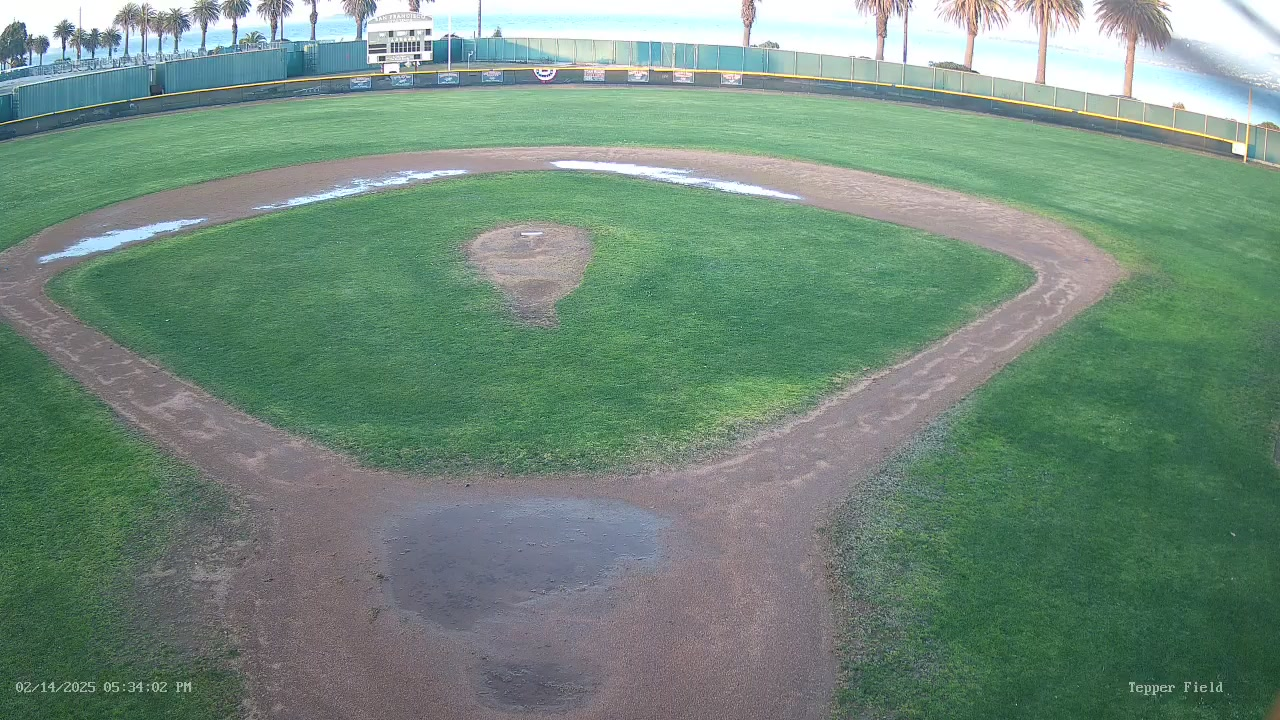
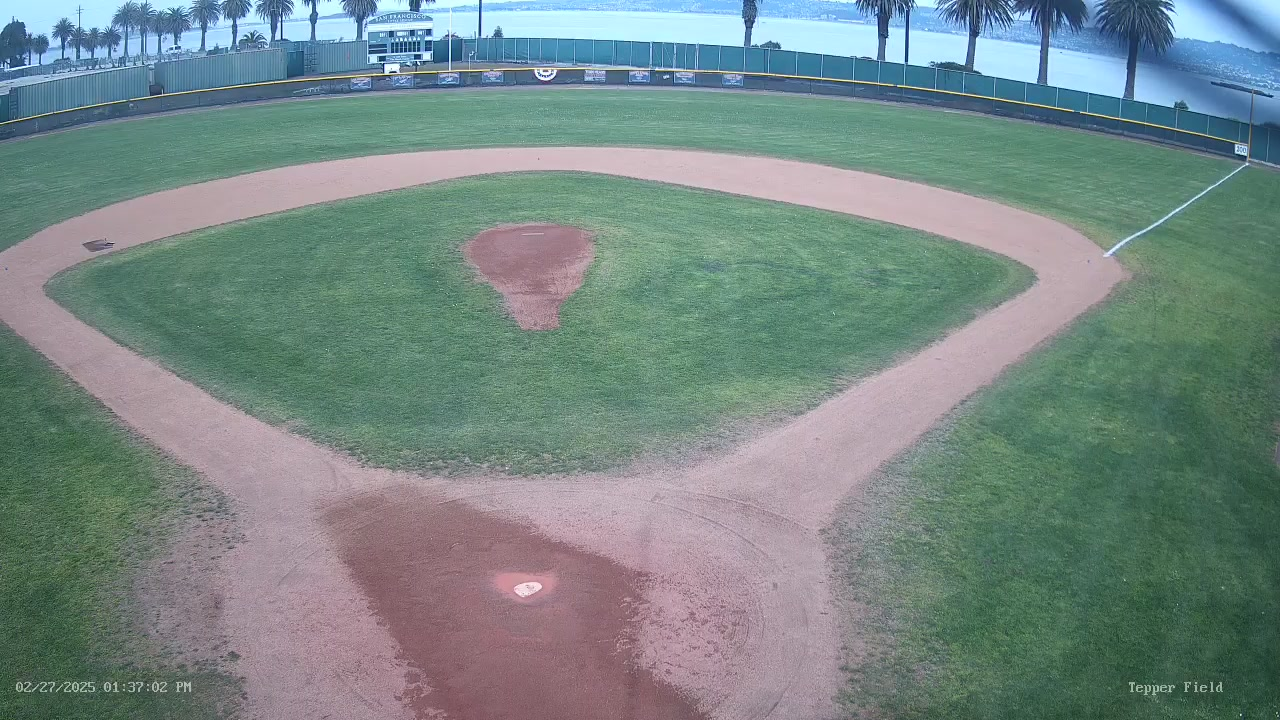
dynamic

diff --git a/cam-app/app/main.py b/cam-app/app/main.py
@@ -78,10 +78,10 @@ def format_datetime(value, format="%Y-%m-%d %H:%M:%S"):
 templates = Jinja2Templates(directory="app/templates")
 templates.env.filters["datetime"] = format_datetime
 
-
+# Static files are cached :|
 app.mount("/static", StaticFiles(directory="app/static"), name="static")
 
-@app.get("/dynamic2/field.jpg")
+@app.get("/dynamic/field.jpg")
 def serve_image():
     file_path = "app/static/field.jpg"
     headers = {

diff --git a/README.md b/README.md
@@ -1,2 +1,20 @@
 # fieldcam
 Streaming Cam Setup For Ball Fields
+
+build.sh
+ will create the camapp docker image
+
+d-up.sh
+ will start docker container
+
+crontab
+
+you need a cron job to take field snapshots
+
+something like this
+```cron
+* * * * * /usr/bin/ffmpeg -hide_banner -loglevel error -y -i rtsp://USERNAME:PASSWORD@IPADDRESS:554/Streaming/channels/102/ -frames:v 1 -q:v 2 /home/stream411/fieldcam/cam-app/app/static/field.jpg
+```
+
+FIXME: Make this a docker container job?
+
